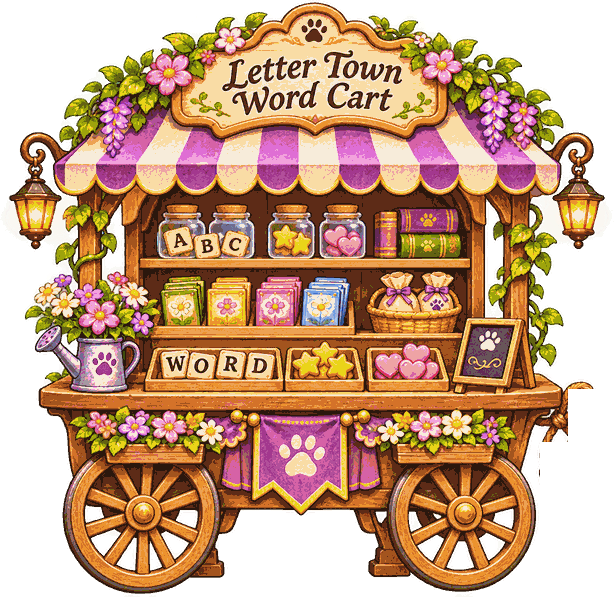
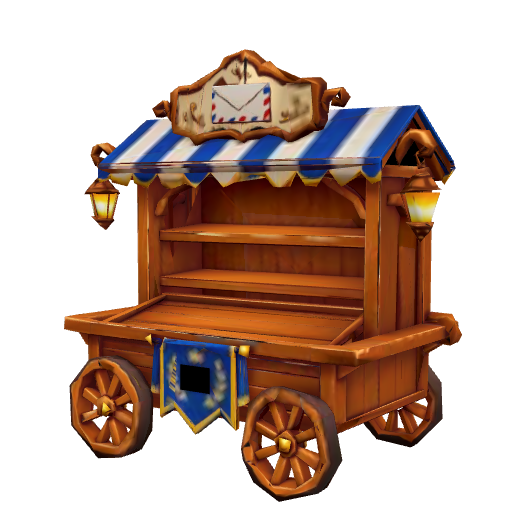
Round 8 part 10: pick a cart, 2D cart pictures match 3D
Claude-Session: https://claude.ai/code/session_016BfZh2LYvy62fk6FhLMo7W

diff --git a/builds/lettertown-chapter-one-r8/app/screens.js b/builds/lettertown-chapter-one-r8/app/screens.js
@@ -239,14 +239,19 @@ export function makeScreens(c) {
     },
     carts() {
       frameBg(); header(S.usePractice ? 'Carts (practice)' : 'The two carts'); const p = P(), wc = p.wordCart, fc = p.flowerCart;
-      rr(30, 100, 760, 695, 22, '#fffdf6', COL.edge); const wi = img('scene/word_cart.png'); if (wi) g.drawImage(wi, 50, 110, 150, 150);
+      st.cartSel = st.cartSel || 'word';
+      const pickCart = (x0, key, name, file, sub) => { rr(x0, 100, 760, 695, 22, '#fffdf6', COL.edge); const im = img(file); if (im) { const k = Math.min(520 / im.width, 430 / im.height); g.drawImage(im, x0 + 380 - im.width * k / 2, 130, im.width * k, im.height * k); } text(name, x0 + 380, 590, 42, COL.ink, 'center', true); text(sub, x0 + 380, 640, 24, COL.soft, 'center'); B(x0 + 130, 680, 500, 90, `Work at the ${name}`, () => { st.cartSel = key; }, { style: key === 'word' ? 'purple' : 'green', size: 32 }); };
+      if (st.cartSel === 'word') {
+      rr(30, 100, 760, 695, 22, '#fffdf6', COL.edge); const wi = img('scene/word_cart.png'); if (wi) g.drawImage(wi, 40, 105, 160, 156);
       text('Word Cart', 220, 150, 40, COL.ink, 'left', true); text('Sells crafted words. Coins wait in the cashbox.', 220, 200, 24, COL.soft);
       for (let i = 0; i < 6; i++) { const it = wc.items[i], x = 60 + (i % 3) * 240, y = 280 + Math.floor(i / 3) * 110; rr(x, y, 225, 96, 14, it ? '#f3ebff' : '#f3efe6', COL.edge, 3); text(it ? it.w.toUpperCase() : 'empty', x + 112, y + 36, it ? 30 : 24, it ? COL.plum : '#b5ad9e', 'center', !!it); if (it) text(`${it.value} coins`, x + 112, y + 72, 22, COL.soft, 'center'); }
       text(wc.items.length > 6 ? `${wc.items.length - 6} more waiting behind the cart` : wc.items.length ? 'Oldest sells first.' : 'Empty. Stock words from the Spelling Book.', 410, 525, 24, COL.soft, 'center');
       rr(60, 560, 700, 96, 16, '#fff3d6', COL.edge, 3); text(`Cashbox: ${wc.cashbox} coins`, 90, 608, 34, COL.ink, 'left', true); B(440, 572, 300, 72, wc.cashbox ? `Take ${wc.cashbox} coins` : 'No coins yet', () => { const r = R.collect(S); note(r); if (r.ok) c.beep(900, 0.1); }, { style: 'green', off: !wc.cashbox });
       if (!p.words.length) text('Craft a word in the Spelling Book, then stock it here.', 410, 720, 24, COL.soft, 'center');
       p.words.slice(0, 3).forEach((it, i) => B(60 + i * 237, 680, 226, 84, `Stock\n${it.w.toUpperCase()}`, () => { const r = R.stockWord(S, it.id, c.now()); note(r); if (r.ok) { if (S.usePractice) emit('stocked:' + it.w); else c.speak(DLG.P12.file); } }, { style: 'purple', size: 24 }));
-      rr(810, 100, 760, 695, 22, '#fffdf6', COL.edge); const fi = img('scene/flower_cart.png'); if (fi) g.drawImage(fi, 830, 110, 120, 120);
+      } else pickCart(30, 'word', 'Word Cart', 'scene/word_cart.png', 'Sells crafted words');
+      if (st.cartSel === 'flower') {
+      rr(810, 100, 760, 695, 22, '#fffdf6', COL.edge); const fi = img('scene/flower_cart.png'); if (fi) g.drawImage(fi, 825, 105, 130, 146);
       text('Flower Cart', 980, 140, 40, COL.ink, 'left', true); [['glass', 'Glass vase'], ['fluted', 'Blue vase']].forEach(([k, label], i) => B(1250 + i * 160, 128, 150, 48, label, () => { st.vase = k; }, { size: 20, r: 10, style: (st.vase || 'glass') === k ? 'gold' : 'cream', on: (st.vase || 'glass') === k })); text('Arrange up to 9 cut flowers into a bouquet.', 980, 192, 24, COL.soft);
       const own = (k) => (p.flowers[k] || 0) + (p.basket[k] || 0), total = Object.values(st.arr).reduce((a, b) => a + b, 0);
       st.arrPage = st.arrPage || 0; const SPP = 8, spl = R.CFG.species.slice(st.arrPage * SPP, st.arrPage * SPP + SPP); text(`Flowers ${st.arrPage * SPP + 1}-${st.arrPage * SPP + spl.length} of ${R.CFG.species.length}`, 1190, 568, 22, COL.soft, 'center'); B(830, 548, 120, 40, '◀', () => { st.arrPage = Math.max(0, st.arrPage - 1); }, { size: 22, off: st.arrPage === 0, r: 10 }); B(1430, 548, 120, 40, '▶', () => { st.arrPage = Math.min(Math.ceil(R.CFG.species.length / SPP) - 1, st.arrPage + 1); }, { size: 22, off: (st.arrPage + 1) * SPP >= R.CFG.species.length, r: 10 });
@@ -257,6 +262,7 @@ export function makeScreens(c) {
       B(830, 622, 350, 66, total ? `Keep ${total} for later` : 'Add flowers first', () => doArr(false), { style: 'green', size: 28, off: !total }); B(1200, 622, 350, 66, total ? 'Sell on the flower cart' : 'Add flowers first', () => doArr(true), { style: 'purple', size: 28, off: !total || fc.items.length >= R.CFG.flowerSlots });
       text(`With you: ${p.bouquets.length} bouquet${p.bouquets.length === 1 ? '' : 's'}.   On the cart: ${fc.items.length} of ${R.CFG.flowerSlots}.`, 1190, 718, 24, COL.ink, 'center');
       B(830, 735, 720, 52, p.bouquets.length ? `Put my ${p.bouquets[0].size}-flower bouquet on the cart` : 'Your bouquets will wait here until you put them on the cart', () => { if (p.bouquets.length) note(R.stockBouquet(S, p.bouquets[0].id, c.now())); }, { style: 'cream', size: 22, off: !p.bouquets.length || fc.items.length >= R.CFG.flowerSlots });
+      } else pickCart(810, 'flower', 'Flower Cart', 'scene/flower_cart.png', 'Sells bouquets');
       footer();
     },
     cottage() {
